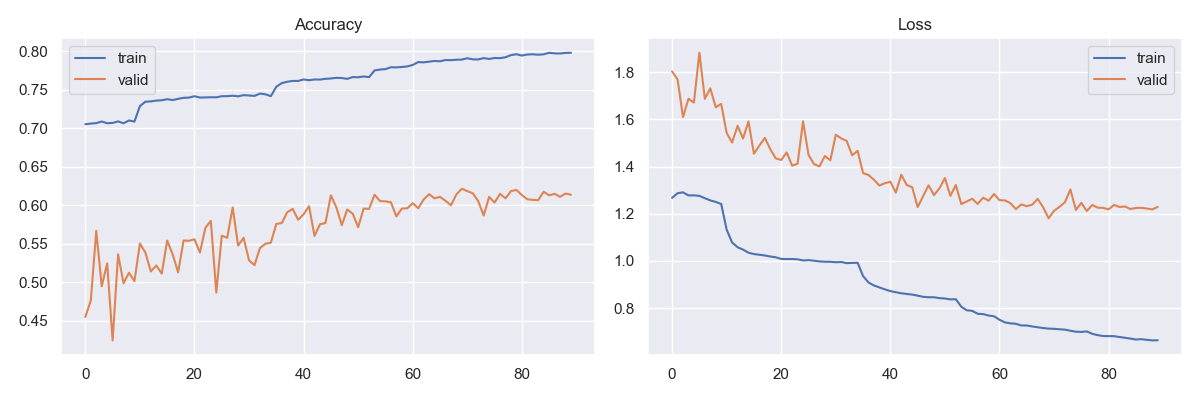
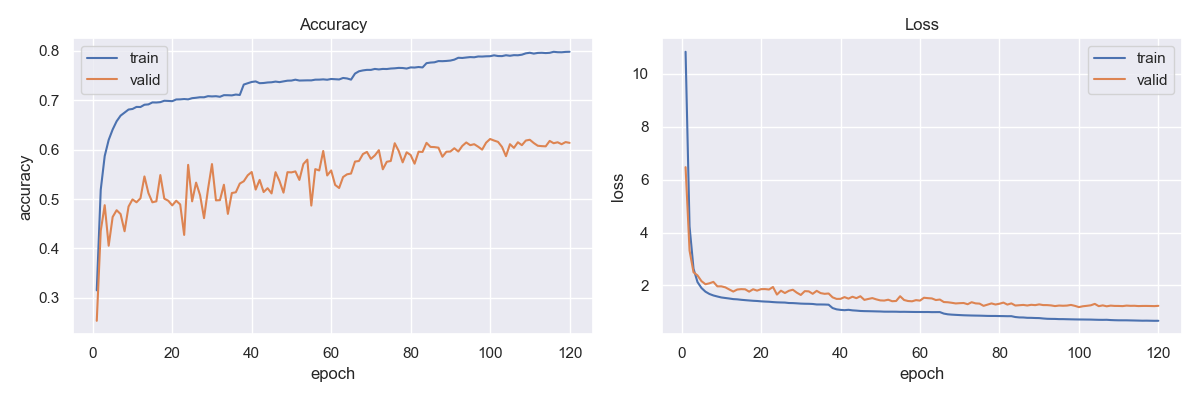
Updated images

diff --git a/README.md b/README.md
@@ -429,9 +429,9 @@ python3 -m training_models.emotion_recognition_training -size 128 --classes 8 --
 ```
 * The results I obtained from that training run are below, and accuracy of 62.15%, an additional 2% higher accuracy on the validation set, for a total of 5%, when compared to the original training run. This result is just slightly off the highest report of 62.425% (though I also filtered ambiguous images out of the validation set):
 
-![epoch history](results/recognizer/64_reduced_True_augmented_True_8cat/epoch_history.png "Epoch History")
+![epoch history](results/recognizer/128_reduced_True_augmented_True_8cat/epoch_history.png "Epoch History")
 ![epoch history](results/recognizer/128_reduced_True_augmented_True_8cat/confusion_matrix.png "Epoch History")
-![epoch history](results/recognizer/64_reduced_True_augmented_True_8cat/performance_dist.png "Epoch History")
+![epoch history](results/recognizer/128_reduced_True_augmented_True_8cat/performance_dist.png "Epoch History")
 ![epoch history](results/recognizer/128_reduced_True_augmented_True_8cat/example_faces.png "Epoch History")
 
 ## Web App Production Pipeline
